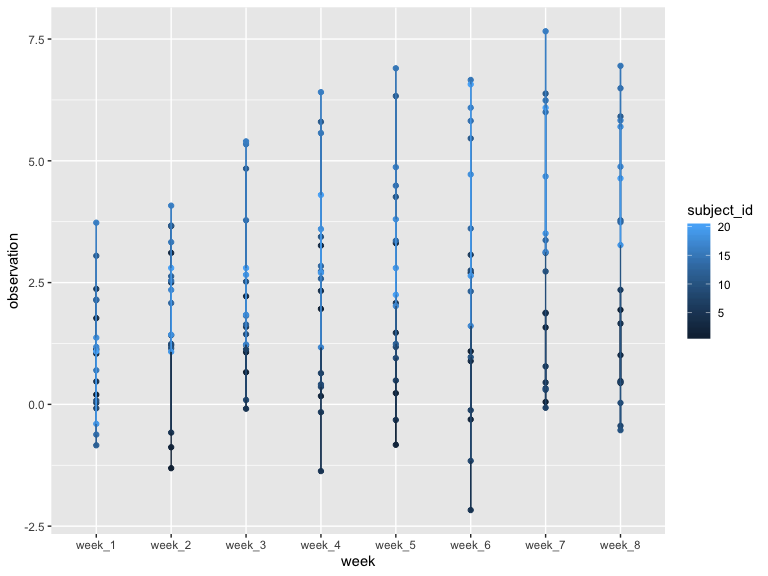
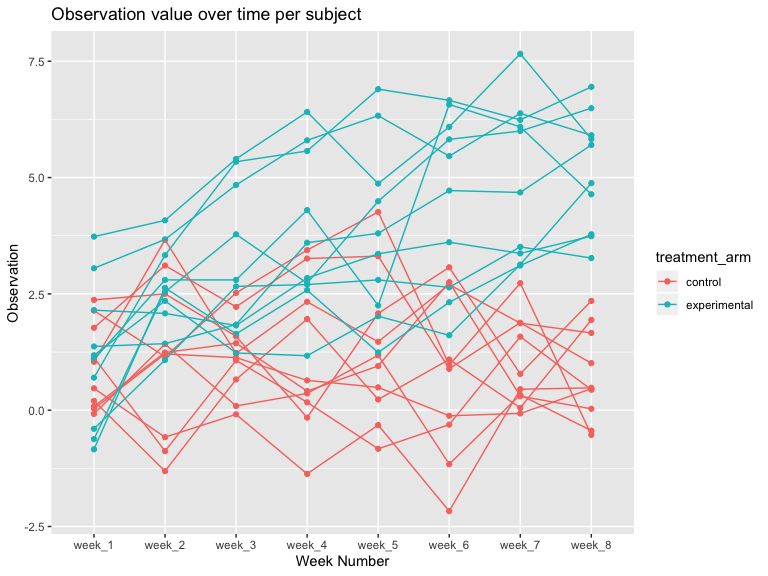
spaghetti plot for q2 fixed

diff --git a/p8105_hw5_nja2140.md b/p8105_hw5_nja2140.md
@@ -58,8 +58,13 @@ plot_one =
     names_to = "week", 
     values_to = "observation"
   ) %>% 
-  ggplot(aes(x = week, y = observation, color = subject_id)) +
-         geom_point() + geom_line()
+  ggplot(aes(x = week, y = observation, color = treatment_arm, group=subject_id)) +
+         geom_point() + geom_line() +
+  labs(
+  title = "Observation value over time per subject",
+  x = "Week Number",
+  y = "Observation"
+  )
 plot_one
 ```
 
